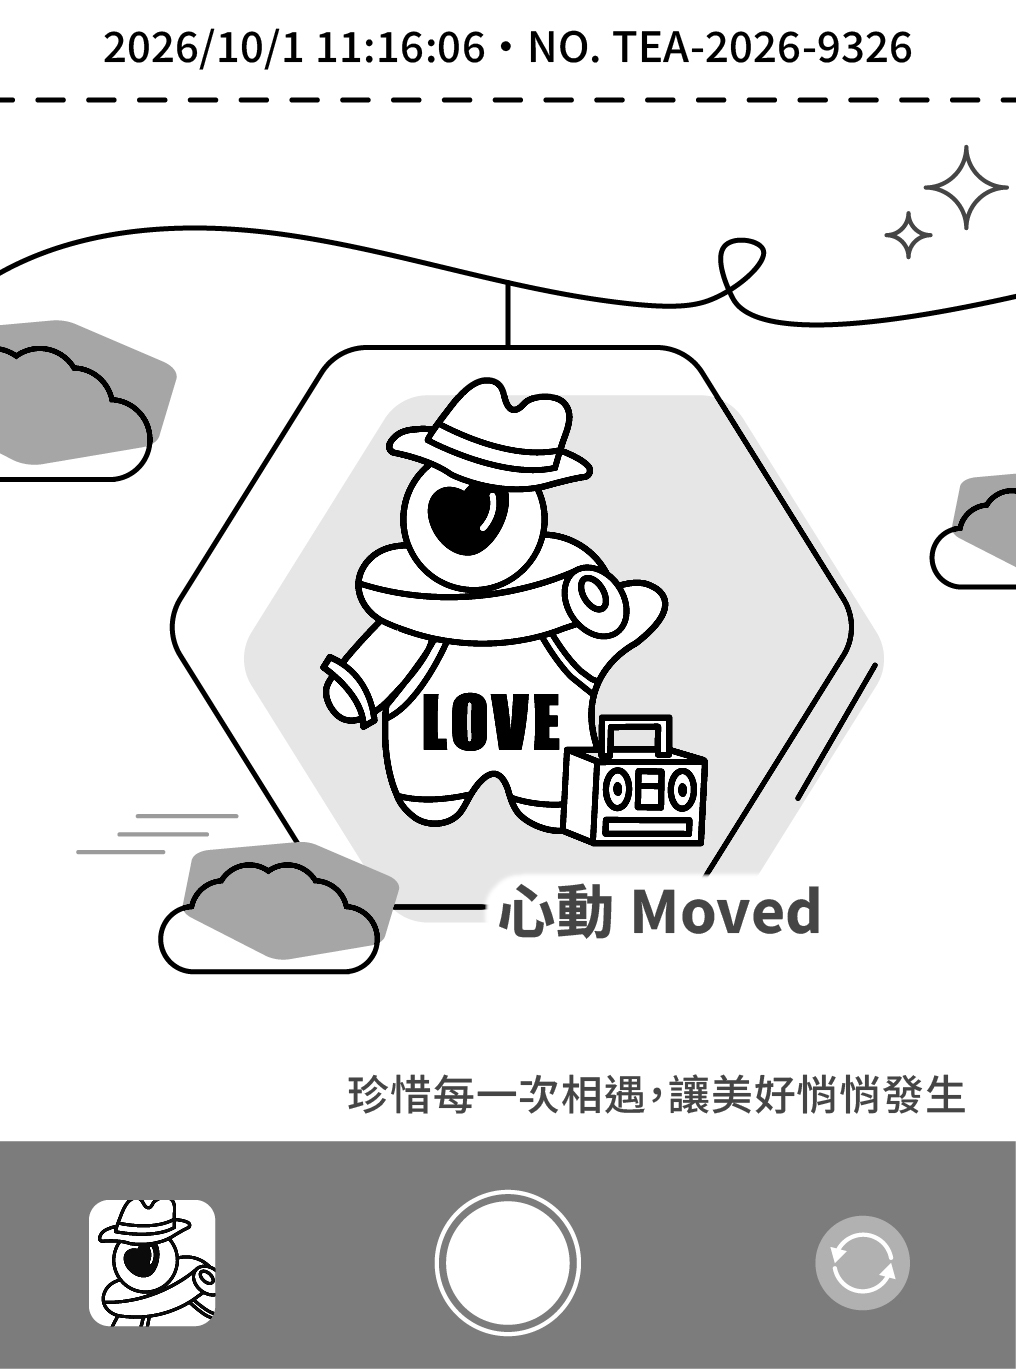
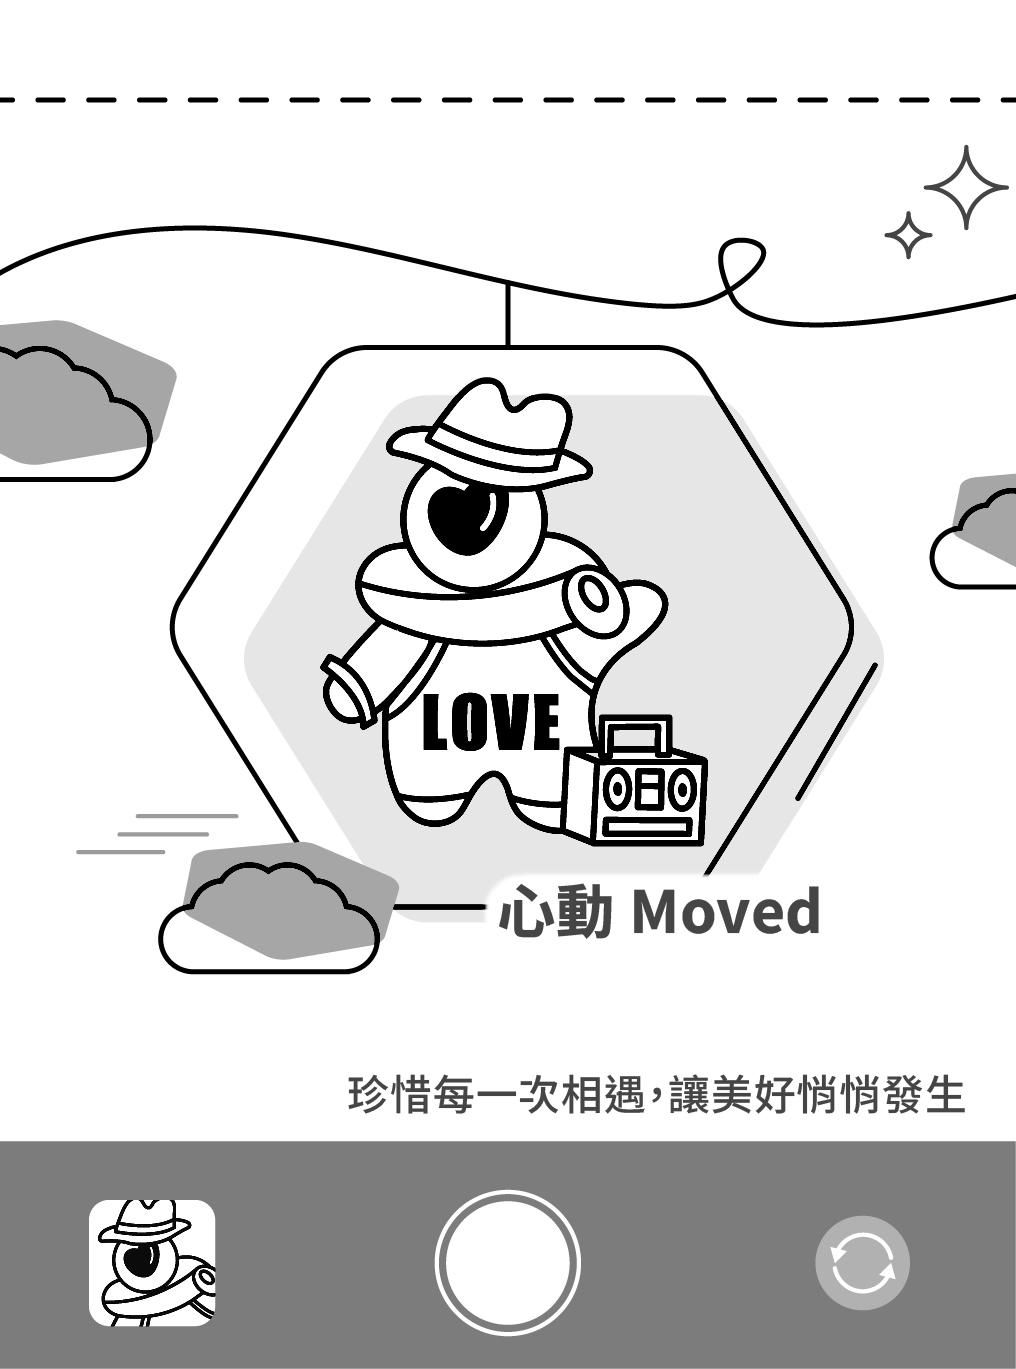
紀念標籤換無編號新版，左上角印上當下真實時間

Changed region(s): [[0.0915, 0.0, 0.4882, 0.0614], [0.6102, 0.0, 0.9154, 0.0614], [0.5187, 0.0, 0.5797, 0.0614]]

diff --git a/src/components/PrinterOutput.tsx b/src/components/PrinterOutput.tsx
@@ -6,6 +6,27 @@ import { sounds } from '../utils/audio';
 import { DEFAULT_EMOTION_IMAGES, DEFAULT_TEXTS } from '../utils/mediaStorage';
 import { printImage } from '../utils/receiptPrinter';
 
+// 標籤設計稿寬 1016px；日期時間印在左上角，位置、大小對齊原本設計稿上寫死日期的地方
+const LABEL_DESIGN_WIDTH = 1016;
+const STAMP_FONT = '500 42px "Noto Sans TC", sans-serif';
+
+async function stampTimeOnLabel(url: string, text: string): Promise<string> {
+  const img = new Image();
+  img.src = url;
+  await img.decode();
+  const k = img.naturalWidth / LABEL_DESIGN_WIDTH;
+  const canvas = document.createElement('canvas');
+  canvas.width = img.naturalWidth;
+  canvas.height = img.naturalHeight;
+  const ctx = canvas.getContext('2d')!;
+  ctx.drawImage(img, 0, 0);
+  await document.fonts.load(STAMP_FONT, text).catch(() => {});
+  ctx.font = STAMP_FONT.replace('42px', `${42 * k}px`);
+  ctx.fillStyle = '#000';
+  ctx.fillText(text, 105 * k, 62 * k);
+  return canvas.toDataURL('image/png');
+}
+
 interface Props {
   tea: TeaProduct;
   emotion: EmotionOption;
@@ -29,7 +50,7 @@ export const PrinterOutput: React.FC<Props> = ({
   });
   const [currentTime] = useState<string>(() => {
     const d = new Date();
-    return d.toLocaleString('zh-TW', { hour12: false });
+    return d.toLocaleString('zh-TW', { hour12: false, timeZone: 'Asia/Taipei' });
   });
 
   const [printFinished, setPrintFinished] = useState<boolean>(false);
@@ -46,6 +67,26 @@ export const PrinterOutput: React.FC<Props> = ({
     customImages[`print-label-${emotion.id}`] ||
     customImages['print-label-default'] ||
     null;
+
+  // 標籤圖印上當下真實時間；畫面顯示和印出來的是同一張
+  const [stampedLabel, setStampedLabel] = useState<string | null>(null);
+  useEffect(() => {
+    if (!customLabelImage) return;
+    stampTimeOnLabel(customLabelImage, currentTime)
+      .then(setStampedLabel)
+      .catch((err) => {
+        console.error('[標籤時間]', err);
+        setStampedLabel(customLabelImage);
+      });
+  }, [customLabelImage, currentTime]);
+  const printSource = customLabelImage ? stampedLabel : monsterImage;
+
+  // 標籤準備好就自動印（沒有標籤圖就印小怪獸），只印一次
+  useEffect(() => {
+    if (!printSource || printTriggeredRef.current) return;
+    printTriggeredRef.current = true;
+    handlePrint();
+  }, [printSource]);
 
   // Monster custom text overrides based on emotion (name is locked)
   const monsterName = DEFAULT_TEXTS[`monster-${emotion.id}-name`] || monster.name;
@@ -66,13 +107,7 @@ export const PrinterOutput: React.FC<Props> = ({
   useEffect(() => {
     sounds.playPrinterFeed();
 
-    // 1. 直接用 USB 收據機印出標籤圖（沒有標籤圖就印小怪獸），不跳列印視窗
-    if (!printTriggeredRef.current) {
-      printTriggeredRef.current = true;
-      handlePrint();
-    }
-
-    // 2. 30 seconds countdown to automatically return to home/first step
+    // 30 seconds countdown to automatically return to home/first step
     const countdownInterval = setInterval(() => {
       setCountdown((prev) => {
         if (prev <= 1) {
@@ -90,8 +125,9 @@ export const PrinterOutput: React.FC<Props> = ({
   }, [onRestart]);
 
   function handlePrint() {
+    if (!printSource) return;
     setTransmissionStatus('transmitting');
-    printImage(customLabelImage || monsterImage)
+    printImage(printSource)
       .then(() => {
         setTransmissionStatus('printed');
         setPrintFinished(true);
@@ -143,7 +179,7 @@ export const PrinterOutput: React.FC<Props> = ({
             /* User-uploaded pre-made Print Label Graphic (zero left/right white borders) */
             <div className="w-fit max-w-full mx-auto rounded-xl shadow-xl overflow-hidden animate-print-feed relative print:shadow-none print:rounded-none print:w-full print:m-0">
               <img
-                src={customLabelImage}
+                src={stampedLabel || customLabelImage}
                 alt={`${displayMonster.name} 列印標籤`}
                 className="block w-auto max-w-full h-auto max-h-[64vh] select-none pointer-events-none print:max-h-none print:w-full"
               />

diff --git a/index.html b/index.html
@@ -12,6 +12,8 @@
     <link rel="preconnect" href="https://fonts.googleapis.com">
     <link rel="preconnect" href="https://fonts.gstatic.com" crossorigin>
     <link href="https://fonts.googleapis.com/css2?family=Cinzel:wght@500;700&family=Noto+Serif+TC:wght@400;600;700;900&family=Plus+Jakarta+Sans:wght@400;500;600;700&display=swap" rel="stylesheet">
+    <!-- 標籤上的日期時間用：只載入數字和符號，很小 -->
+    <link href="https://fonts.googleapis.com/css2?family=Noto+Sans+TC:wght@500&text=0123456789/:%20&display=swap" rel="stylesheet">
   </head>
   <body class="bg-[#F9FAF9] text-stone-800 antialiased selection:bg-[#B7D5B0] selection:text-[#18331E] overflow-x-hidden min-h-screen">
     <div id="root"></div>
